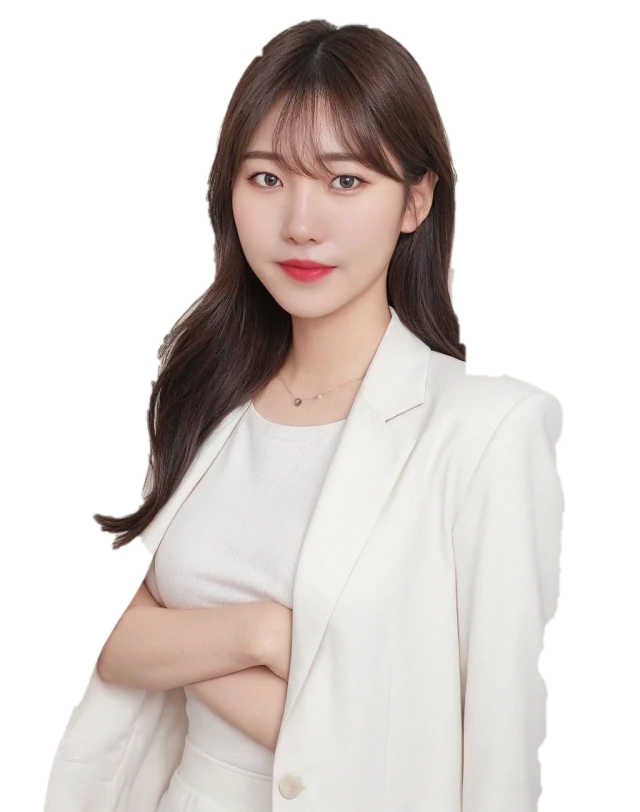
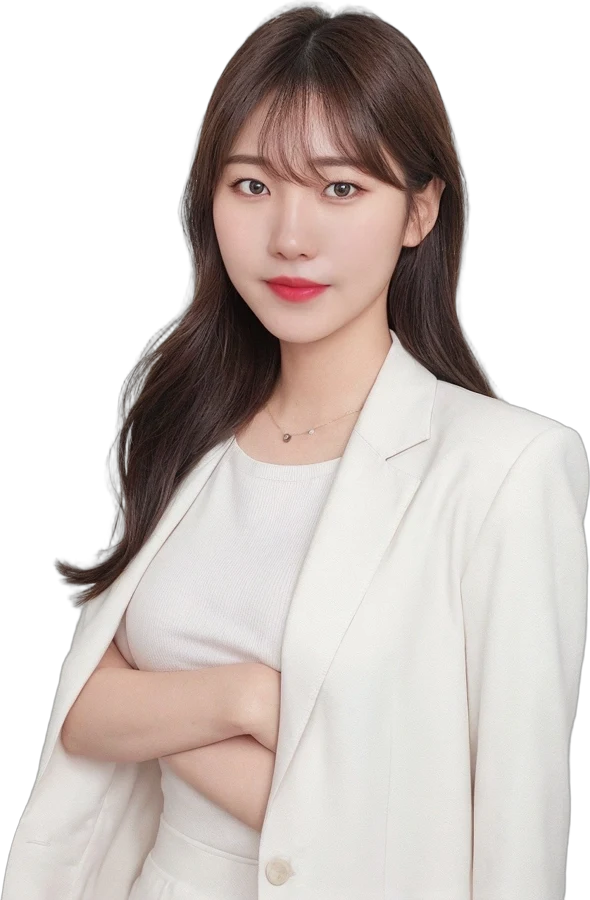
수익화 교육: 깔끔한 누끼 사진, 월 10만원대 표시
Claude-Session: https://claude.ai/code/session_017jcGTHyjJpAxKaCwP56Vqt

diff --git a/app.js b/app.js
@@ -1081,7 +1081,7 @@ function eduView(){
     '<section class="edurv"><small>REVIEW</small><h2>수강생 후기</h2><p class="edurvn">다꾸 수익화 교육 전에 같은 강사가 진행한 블로그·인스타 협찬 강의 수강생이 남긴 실제 후기예요.</p><div class="edurvs"><div class="edurvc"><em class="rvn">REVIEW 01</em><b>타부업보다 훨씬 좋은 플랫폼</b><p>다른 부업 사이트에서 보면 터무니없는 강의자료와 중요한 것들은 안 알려주고 넘어가는 게 많아서 아쉬웠는데, 강사님께 실무 중심으로 많은 것들을 배울 수 있었습니다. 덕분에 도움이 많이 되었어요.</p></div><div class="edurvc"><em class="rvn">REVIEW 02</em><small>마케팅 처음 배우시는 분들께 추천!</small><b>초보자도 기초부터 탄탄하게 배울 수 있는 강의!</b><p>처음부터 어떻게 시작해야 하는지 고민을 많이 했는데.. 강사님 커리큘럼 보고 협찬 문의가 늘기 시작했어요. 기초부터 하나하나 다 알려주셔서 따라 하면서 익히기에 정말 좋았습니다.</p></div><div class="edurvc"><em class="rvn">REVIEW 03</em><small>부가수익이 필요해서 시작했어요!</small><b>이거 진작 시작할걸 그랬어요!</b><p>아예 처음 배우는 거라 초기 비용이 너무너무 부담되었는데… 부업 시작하시는 분들 멘토님이랑 저 믿고 시작하세요. 저는 친구한테도 추천하고 있어요!</p></div><div class="edurvc"><em class="rvn">REVIEW 04</em><b>AI 프롬프트 정리가 잘 되어 있어요</b><p>무엇보다 블로그 포스팅 AI 프롬프트 정리가 잘 되어 있어서 좋았어요. 멘토님께서 1:1 피드백도 매일 해주시고 출석 알림 주셔서 감사했습니다.</p></div><div class="edurvc"><em class="rvn">REVIEW 05</em><b>퇴사 후 만난 부업이에요</b><p>저는 5년 차 직장인으로 이직을 준비하던 중 집에서 용돈 벌 수 있는 일을 알아봤어요. 그러다 인스타를 통해서 멘토님을 알게 되었고, 화장품 협찬 릴스 보고 혹해서 시작하게 되었어요.</p></div><div class="edurvc"><em class="rvn">REVIEW 06</em><small>육아맘 협찬 부업으로 추천!</small><b>내 인생 최고의 부업!</b><p>그동안 부업을 해야겠다 마음만 먹고 있었는데 멘토님 인스타 보고 시작하게 됐어요. 고민 중이시라면 시작해 보세요.</p></div></div><p class="edurvx">개인의 경험이며 결과는 사람마다 달라요. 체험단 선정·검색 순위·수익을 보장하지 않습니다.</p></section>'+
     '<section class="edusec"><h2>진행 방식</h2><ul class="eduway"><li>💬 카톡으로 상담 신청 → 지금 블로그 상태 확인</li><li>📚 전자책·강의자료를 바로 드려요</li><li>🧑🏫 5주 1:1 교육 커리큘럼</li><li>🎁 수강생 혜택: 평생 1:1 코칭 무료 (300만원 상당, 횟수 제한 없음)</li><li>🏆 수강생 혜택: 다꾸체험단이 직접 진행하는 캠페인·이벤트 평생 우선권</li><li>📚 수강생 혜택: 블로그 관련 서적 제공</li><li>💳 한 번 결제, 카드 할부 가능 (할부 개월 수는 카드사마다 달라요)</li></ul>'+
       '<div class="eduguar"><b>💯 당첨 안 되면 100% 환불</b><p>5주 교육을 마친 뒤 3개월 안에, 배운 방법대로 체험단을 30번 이상 신청했는데 한 번도 선정되지 않으면 결제 금액 전액을 돌려드려요. (신청 내역 캡처로 확인)</p><small>⚠ 허위 신청 내역·캡처 조작 등 부정한 방법으로 환불을 받으면 환불금 반환을 청구하고, 민·형사상 법적 책임을 물을 수 있어요.</small></div>'+
-      '<div class="edustage"><p class="esk">한 달이면 끝내는 블로그 체험단·수익화</p><h3>다꾸 수익화 1:1 클래스</h3><div class="esbody"><img class="esimg" src="images/edu-coach.webp" alt="다꾸 수익화 강사" loading="lazy"><span class="esf f1">📝</span><span class="esf f2">✨</span><div class="esbox"><span class="esbadge">상담 시<br>공개</span><small>5주 1:1 강의 + 전자책·강의자료</small><hr><b class="blurp" aria-hidden="true">000만원</b><strong>🔒 상담 신청하신 분께만</strong><em>*카드 할부 최대 12개월 가능<br>(할부 수수료는 카드사 기준)</em></div></div><p class="esgift"><b>평생 1:1 코칭 무료 (300만원 상당)</b><br>다꾸체험단 이벤트 평생 우선권 · 블로그 관련 서적</p><a class="b esbtn" href="#eduapply" data-jumpid="eduapply">수강료 알아보기 ›</a></div>'+
+      '<div class="edustage"><p class="esk">한 달이면 끝내는 블로그 체험단·수익화</p><h3>다꾸 수익화 1:1 클래스</h3><div class="esbody"><img class="esimg" src="images/edu-coach.webp" alt="다꾸 수익화 강사" loading="lazy"><span class="esf f1">📝</span><span class="esf f2">✨</span><div class="esbox"><span class="esbadge">카드<br>할부</span><small>5주 1:1 강의 + 전자책·강의자료</small><hr><b class="esmon">월 10만원대</b><strong>정확한 금액은 상담 때 안내</strong><em>*12개월 카드 할부 시<br>(할부 수수료는 카드사 기준)</em></div></div><p class="esgift"><b>평생 1:1 코칭 무료 (300만원 상당)</b><br>다꾸체험단 이벤트 평생 우선권 · 블로그 관련 서적</p><a class="b esbtn" href="#eduapply" data-jumpid="eduapply">수강료 알아보기 ›</a></div>'+
       '<p class="edunote2">결제는 상담 후 안내드리는 결제 링크로 진행하고, 수강료는 결제 화면에서 다시 확인할 수 있어요. 전자책·강의자료는 받은 뒤에는 그 부분이 환불되지 않아요. <a href="/refund.html">환불정책</a></p>'+
       '<p class="edunote">코칭은 방법을 함께 찾는 과정이에요. 체험단 당첨, 검색 순위, 수익 금액을 약속하거나 보장하지는 않아요. <a href="/refund.html">환불정책 보기</a></p></section>'+
     '<section class="edusec" id="eduapply"><h2>상담 신청</h2><form id="eduform" class="eduform" novalidate>'+

diff --git a/simple.css b/simple.css
@@ -556,3 +556,4 @@ body:has(.dbar) .totop{bottom:calc(var(--tab) + 176px + env(safe-area-inset-bott
 .esgift b{font-size:16px;color:#fff;background:linear-gradient(transparent 55%,rgba(212,111,216,.6) 55%)}
 .edustage .esbtn{display:inline-block;margin-top:14px;padding:12px 26px;border-radius:999px;background:linear-gradient(90deg,#8a3fd0,#d46fd8);color:#fff;font-weight:900;text-decoration:none}
 .esf{z-index:2}.esf.f1{right:12px;top:auto;bottom:70px;transform:rotate(-10deg)}
+.esbox .esmon{display:block;margin:2px 0;font-size:30px;font-weight:900;letter-spacing:-.03em;color:#111;background:linear-gradient(transparent 62%,#c5ff4a 62%)}

diff --git a/sw.js b/sw.js
@@ -1,5 +1,5 @@
 /* 다꾸 체험단 모음 - 오프라인/빠른 실행용 서비스워커 */
-const V = "dakku-v207";
+const V = "dakku-v208";
 const CORE = ["./", "index.html", "style.css", "simple.css", "app.js", "manifest.webmanifest", "icons/icon-192.png"];
 self.addEventListener("install", e => { e.waitUntil(caches.open(V).then(c => c.addAll(CORE.map(p => new Request(p, { cache: "reload" })))).then(() => self.skipWaiting())); });
 self.addEventListener("activate", e => { e.waitUntil(caches.keys().then(ks => Promise.all(ks.filter(k => k !== V).map(k => caches.delete(k)))).then(() => self.clients.claim())); });

diff --git a/CLAUDE.md b/CLAUDE.md
@@ -112,3 +112,5 @@
 - 수익화 교육 강사 사진(2026-10-19 시온님이 보낸 본인 프로필 사진, 같은 날 "누끼 따서 시안처럼"): images/edu-coach.webp(OpenCV GrabCut 으로 배경 지움, 투명). 수강료 자리를 시안(유나우 가격 슬라이드)처럼 .edustage 한 칸으로: 검정+사선 빛+보라 빛, 오른쪽 누끼 사진·떠 있는 이모지 아이콘(네이버 등 남의 로고는 쓰지 않음), 왼쪽 흰 상자(네온 테두리, 빨간 별 배지 "상담 시 공개", 흐린 000만원), 아래 혜택 줄·수강료 알아보기 버튼. 이름은 넣지 않음. 맨 위 히어로의 노란 "상담 신청하기" 버튼은 시온님 요청으로 뺌(아래 고정 버튼이 있음).
 - 수익화 교육 통 이미지(2026-10-19 시온님 "이미지가 뚝뚝 잘린 느낌, 하나의 통이미지처럼"): .pg.edu 전체를 검정 바탕으로, 섹션마다 둥근 모서리·간격 없이 화면 끝까지 이어 붙임(.pg.edu>section margin 0 -16px), 맨 위 보라 히어로는 아래로 갈수록 검정으로 이어짐. 흰 섹션(이런 분께·커리큘럼·책·진행 방식·신청 폼)도 어두운 버전. 새 칸을 넣을 때도 검정 바탕에 맞춘다.
 - 수익화 교육 숙박권 혜택 삭제(2026-10-19 12:16 시온님 "숙박권 문구 다 빼줘"): #/edu 어디에도 "30만원 상당 숙박권"을 쓰지 않는다(위 숙박권 줄은 옛 기록).
+- 누끼(2026-10-19): .github/workflows/cutout.yml — images/src/*.jpg 를 push 하면 Actions 가 rembg(birefnet-portrait·isnet-general-use·u2net_human_seg)로 누끼를 따서 images/src/out/ 에 커밋. 작업 컨테이너는 pip 가 안 돼서 이걸 쓴다. 강사 사진은 birefnet-portrait 결과를 images/edu-coach.webp 로 쓰고 src·out 은 지웠다(원본 사진을 저장소에 남기지 않음).
+- 수익화 교육 가격 상자(2026-10-19 12:20 시온님): 흐린 000만원 대신 "월 10만원대"(*12개월 카드 할부 시, 할부 수수료는 카드사 기준) + "정확한 금액은 상담 때 안내", 빨간 별 배지 "카드 할부". 시온님이 "399 에 줄긋기"를 원했으나 실제로 399만원에 판 적이 없으면 할인 전 가격 표시가 거짓 광고(표시광고법)라 보류 — 시온님 답에 따라 넣는다.
